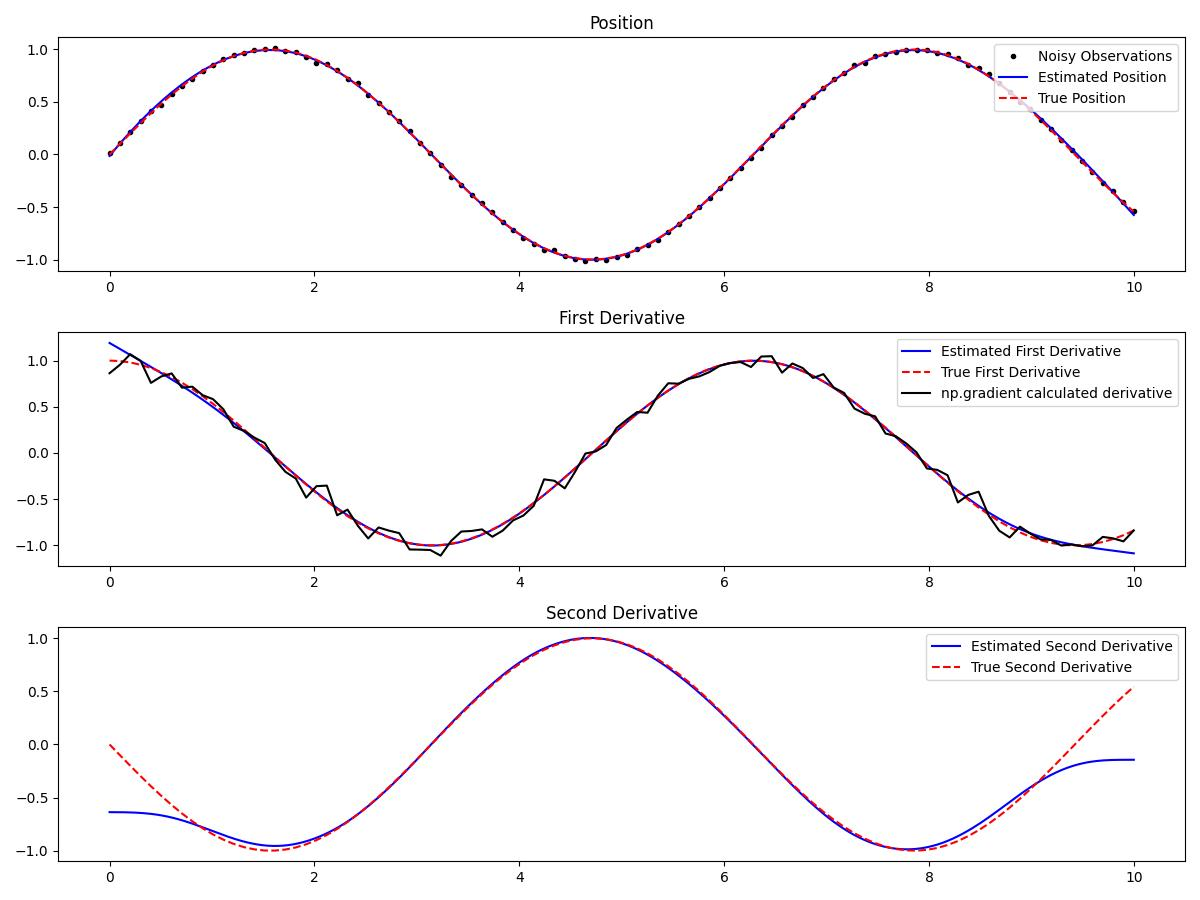
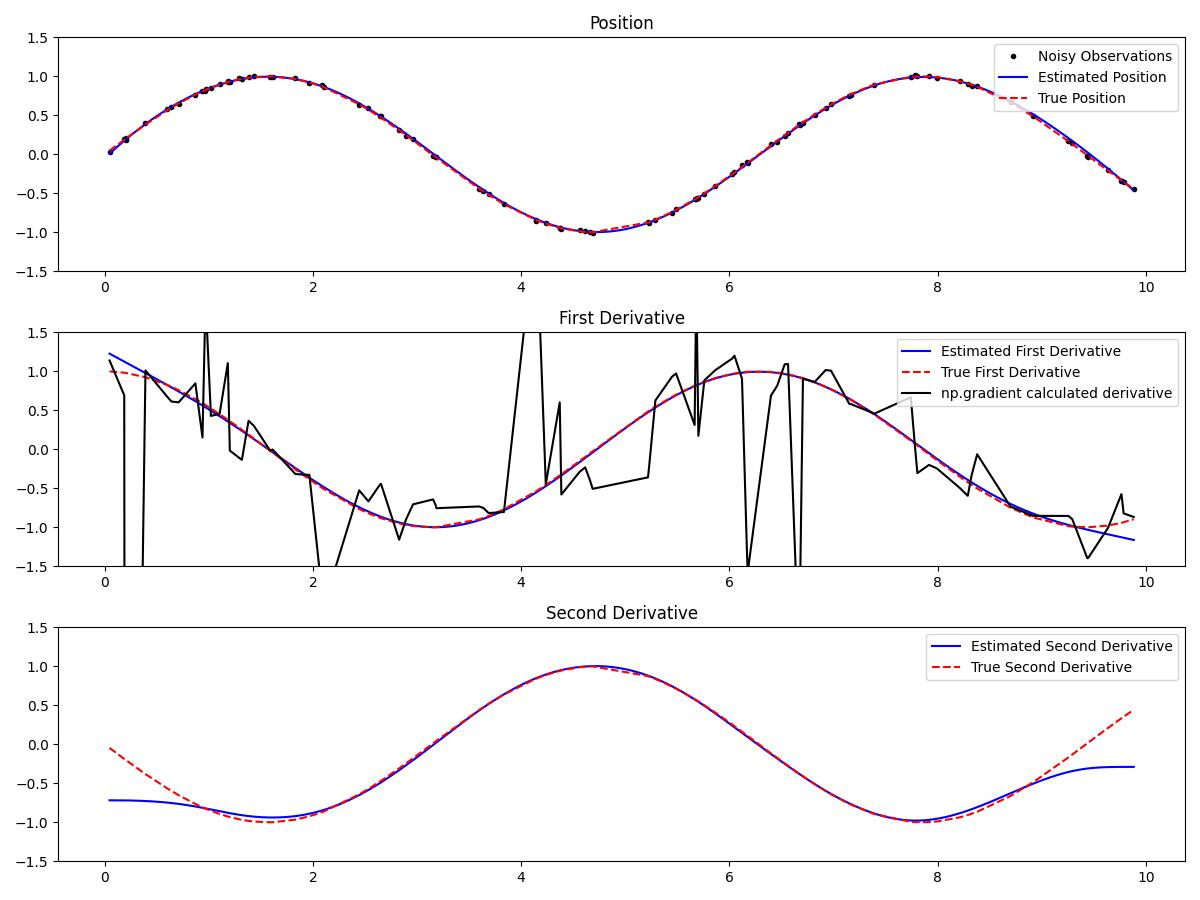
Use not uniformly sampled data

diff --git a/kalmangrad/grad.py b/kalmangrad/grad.py
@@ -115,9 +115,9 @@ def grad(
 if __name__ == "__main__":
     import matplotlib.pyplot as plt
     
-    # Generate noisy sinusoidal data
+    # Generate noisy sinusoidal data with random time points
     np.random.seed(0)
-    t = np.linspace(0, 10, 100)
+    t = sorted(np.random.uniform(0.0, 10.0, 100))
     noise_std = 0.01
     y = np.sin(t) + noise_std * np.random.randn(len(t))
     true_first_derivative = np.cos(t)
@@ -141,6 +141,7 @@ if __name__ == "__main__":
     plt.plot(filter_times, estimated_position, 'b-', label='Estimated Position')
     plt.plot(t, np.sin(t), 'r--', label='True Position')
     plt.legend(loc='upper right')
+    plt.ylim(-1.5, 1.5)
     plt.title('Position')
 
     # First Derivative
@@ -154,6 +155,7 @@ if __name__ == "__main__":
         label='np.gradient calculated derivative'
     )
     plt.legend(loc='upper right')
+    plt.ylim(-1.5, 1.5)
     plt.title('First Derivative')
 
     # Second Derivative
@@ -161,6 +163,7 @@ if __name__ == "__main__":
     plt.plot(filter_times, estimated_second_derivative, 'b-', label='Estimated Second Derivative')
     plt.plot(t, true_second_derivative, 'r--', label='True Second Derivative')
     plt.legend(loc='upper right')
+    plt.ylim(-1.5, 1.5)
     plt.title('Second Derivative')
 
     plt.tight_layout()
